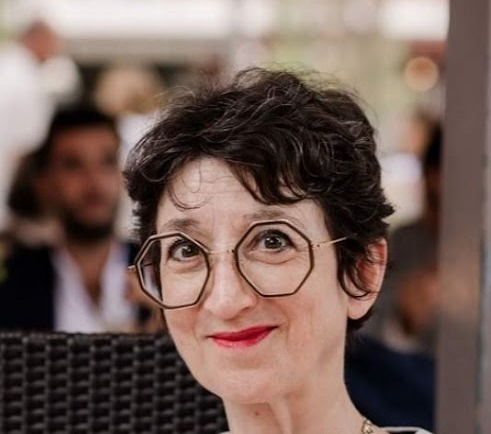
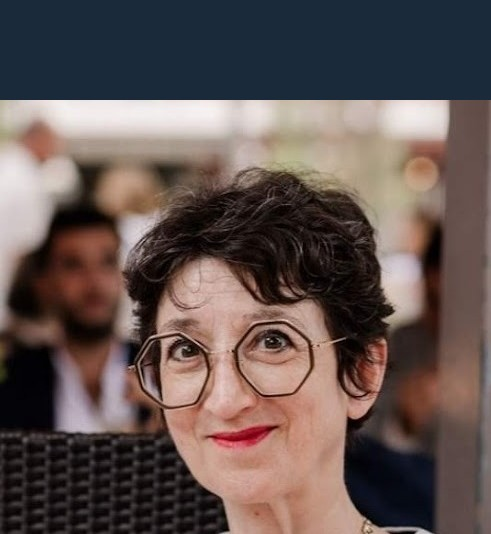
Rebecca : padding haut ajouté à la photo + object-position 18% pour aligner cadre et yeux

diff --git a/equipe.html b/equipe.html
@@ -319,7 +319,7 @@
         </div>
       </div>
       <div class="profile-card">
-        <img src="images/equipe/rebecca.jpg" alt="Rébecca Rotnemer" loading="lazy" style="object-position:center top; transform:scale(1.15) translateY(-16%);">
+        <img src="images/equipe/rebecca.jpg" alt="Rébecca Rotnemer" loading="lazy" style="object-position:center 18%;">
         <div class="profile-info">
           <div class="duo-role" data-fr="Responsable médicale" data-en="Medical officer">Responsable médicale</div>
           <h2 class="duo-name">Rébecca ROTNEMER</h2>
